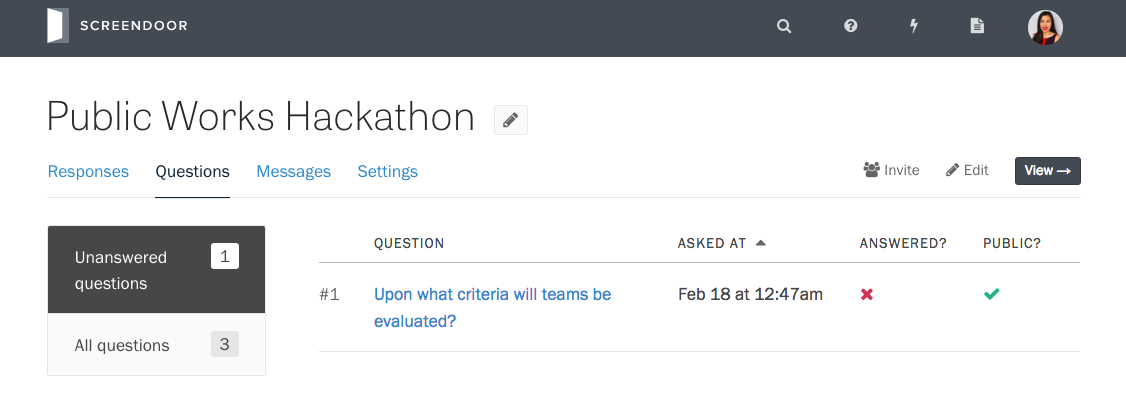
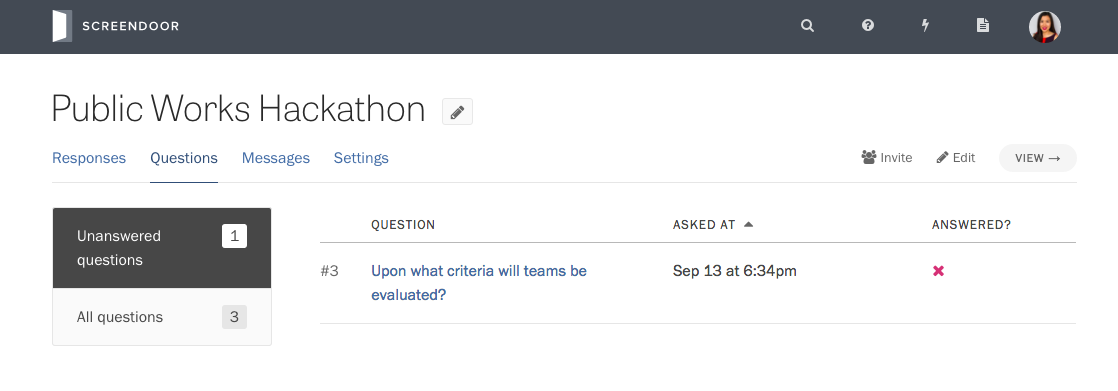
Update copy and screenshots (#328)

diff --git a/contents/articles/screendoor/questions/managing_questions.md b/contents/articles/screendoor/questions/managing_questions.md
@@ -11,7 +11,7 @@ Read more about [how to set up questions for a project](configuring_the_question
 
 ### Viewing questions
 
-On your project's Questions page, you can see all of the questions asked by the public, as well as whether they have been answered or made visible for others to see.
+On your project's Questions page, you can see all of the questions asked by the public, as well as whether they have been answered.
 
 ![Viewing questions asked for a project.](../images/questions_2.png)
 
@@ -23,16 +23,17 @@ To answer, edit, or delete a question, select it from the table on the Questions
 
 ![Answering a question.](../images/questions_3.png)
 
+When you post an answer, the person who asked the question will receive an email with the answer. The question and answer will also be published on the Questions page.
+
+![Posting an answer to the Questions page.](../images/questions_4.png)
+
 After you answer a question, you can always return to this page to edit your answer or remove your answer entirely.
 
 ---
 
 ## F.A.Q.
 
-### Can I answer a question privately?
-Yes. Just uncheck the "Display this question publicly" box when you answer the question.
-
 ### Can I add a question to my own project?
 Yes. First, press the "View" button to visit your project's landing page. Then, click the "Ask a question" link in the page header.
 
-![Asking a question](../images/questions_4.png)
+![Asking a question](../images/questions_5.png)
